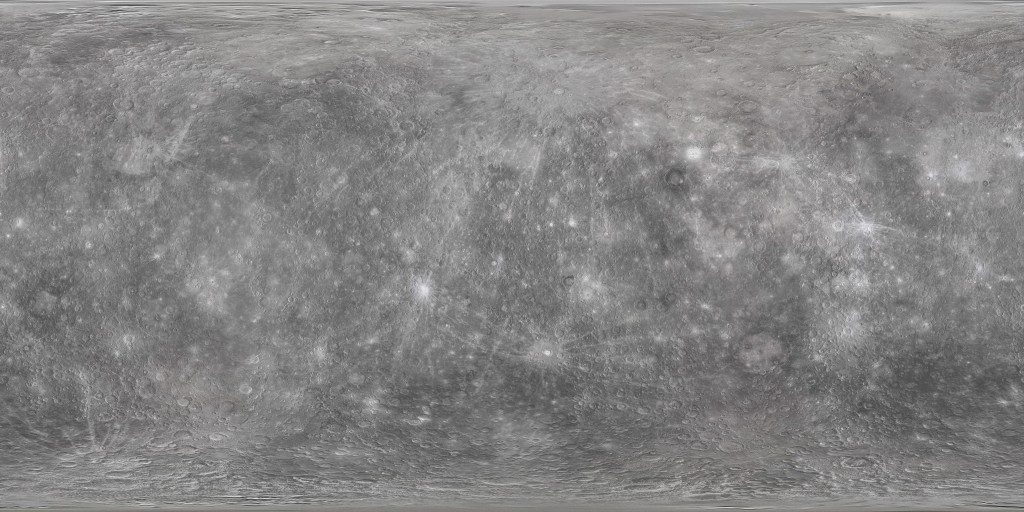
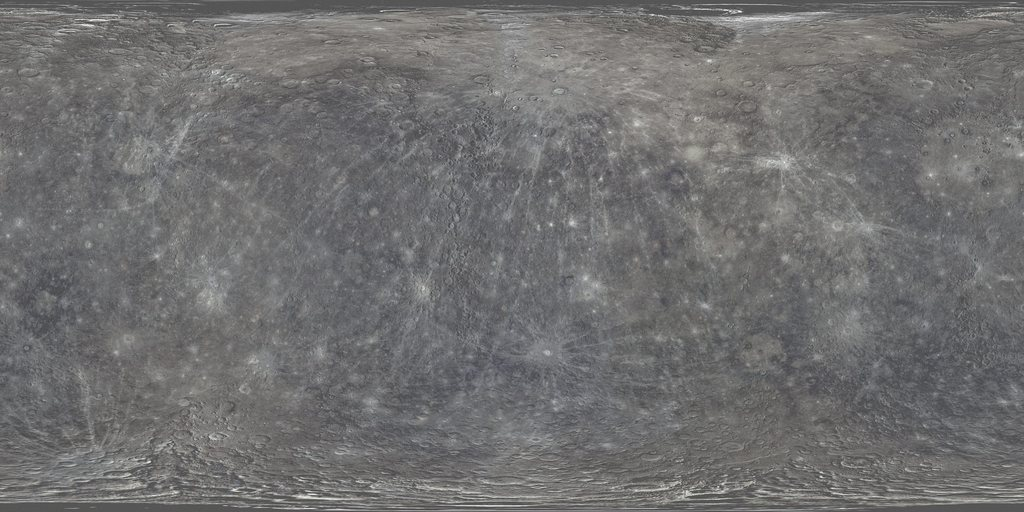
NASA-style realism: HD textures, relief maps, shadows and atmospheres
Stream 4K textures and normal maps when a world fills the screen, light planets with Phong shading, give Earth cloud shadows, ocean glint and a sunset terminator, add sun-aware atmospheres, make Saturn's rings and globe shadow each other, and give Titan its orange haze. Credits updated for RSS-Textures (CC BY-NC-SA) and NASA Blue/Black Marble.

diff --git a/js/main/solar.js b/js/main/solar.js
@@ -11,6 +11,22 @@ const PHYS={
  Saturnus:{r:58232,rot:10.656,pole:[40.59,83.54],obl:.09796,tex:'saturn.jpg'},Uranus:{r:25362,rot:-17.24,pole:[257.31,-15.18],obl:.0229,tex:'uranus.jpg'},
  Neptunus:{r:24622,rot:16.11,pole:[299.36,43.46],obl:.0171,tex:'neptune.jpg'},Pluto:{r:1188.3,rot:-153.29,pole:[132.99,-6.16],col:'#cdb79c'},Bulan:{r:1737.4}
 };
+/* ---------- HD textures streamed on demand (level of detail) ---------- */
+const HDN=new Set(['moon','mars','mercury','io','europa','ganymede','callisto','pluto','charon','miranda','ariel','umbriel','titania','oberon','earth']);
+const HDP={Merkurius:'mercury',Mars:'mars',Jupiter:'jupiter',Saturnus:'saturn',Uranus:'uranus',Neptunus:'neptune',Pluto:'pluto'};
+const HDQ=[];let hdTickN=0,hdBusy=0;
+function hdAdd(mesh,mat,key){HDQ.push({mesh,mat,key,done:false})}
+function hdLoad(e){e.done=true;hdBusy++;const ld=f=>new Promise(res=>new THREE.TextureLoader().load('tex/hd/'+f,t=>{t.anisotropy=renderer.capabilities.getMaxAnisotropy();res(t)},undefined,()=>res(null)));
+  const jobs=e.key==='earth'?[ld('earth_day.jpg'),ld('earth_night.jpg'),ld('earth_spec.jpg'),ld('earth_n.jpg')]:[ld(e.key+'.jpg'),HDN.has(e.key)?ld(e.key+'_n.jpg'):Promise.resolve(null)];
+  Promise.all(jobs).then(t=>{hdBusy--;const m=e.mat;
+    if(e.key==='earth'){if(t[0])m.uniforms.uDay.value=t[0];if(t[1])m.uniforms.uNight.value=t[1];if(t[2])m.uniforms.uSpec.value=t[2];if(t[3]){m.uniforms.uNorm.value=t[3];m.uniforms.uHasN.value=1}return}
+    if(m.uniforms&&m.uniforms.uMap){if(t[0])m.uniforms.uMap.value=t[0];return}
+    if(t[0]){m.map=t[0];m.color.set(0xd6d6d6)}if(t[1]){m.normalMap=t[1];m.normalScale=new THREE.Vector2(.9,-.9)}m.needsUpdate=true})}
+const _hv=new THREE.Vector3();
+function hdTick(){if(++hdTickN%15||hdBusy>2)return;const f=H/2/Math.tan(camera.fov/2*DEG);
+  for(const e of HDQ){if(e.done)continue;const ms=e.mesh;let vis=true;for(let o=ms;o;o=o.parent)if(!o.visible){vis=false;break}if(!vis)continue;
+    ms.getWorldPosition(_hv);const dist=_hv.distanceTo(camera.position);if(!ms.geometry.boundingSphere)ms.geometry.computeBoundingSphere();
+    const px=ms.geometry.boundingSphere.radius*ms.matrixWorld.getMaxScaleOnAxis()/Math.max(dist,1e-9)*f;if(px>90){hdLoad(e);if(hdBusy>2)return}}}
 const FOCUS_S={Bulan:6.95,Matahari:9.45,Merkurius:7.3,Venus:7.6,Bumi:7.3,Mars:7.9,Jupiter:9.7,Saturnus:9.95,Uranus:9.35,Neptunus:9.0,Pluto:8.35};
 const MAXA={Bumi:1.6e6,Mars:23463,Jupiter:2.45e7,Saturnus:2.7e7,Uranus:2.05e7,Neptunus:5.1e7,Pluto:64738};
 function poleBasis(name){const p=PHYS[name].pole;const Y=A.eqToEcl(A.sph(p[0],p[1]));let X;
@@ -47,47 +63,89 @@ const sunMesh=new THREE.Mesh(new THREE.SphereGeometry(PHYS.Matahari.r,64,40),sun
 const bodies={};
 function planetLayer(name){const maxA=Math.max(PHYS[name].r*6,MAXA[name]||0);const top=Math.log10(maxA*KM*2)+1.4;
   const L=layer(name,KM,A.M_ECL,()=>POS[name],s=>win(-9,top,.8,s));L.top=top;bodies[name]=L;return L}
-const earthMat=new THREE.ShaderMaterial({uniforms:{uDay:{value:TX('earth_day.jpg')},uNight:{value:TX('earth_night.jpg')},uSpec:{value:TX('earth_spec.jpg')},uSun:{value:new THREE.Vector3(1,0,0)},uOpacity:{value:1}},transparent:true,
+const earthMat=new THREE.ShaderMaterial({uniforms:{uDay:{value:TX('earth_day.jpg')},uNight:{value:TX('earth_night.jpg')},uSpec:{value:TX('earth_spec.jpg')},uNorm:{value:null},uHasN:{value:0},uClouds:{value:TX('earth_clouds.jpg')},uCR:{value:0},uSun:{value:new THREE.Vector3(1,0,0)},uOpacity:{value:1}},transparent:true,
+ vertexShader:LD_V+`varying vec2 vUv;varying vec3 vN;varying vec3 vP;varying vec3 vT;void main(){vUv=uv;vN=normalize(mat3(modelMatrix)*normal);vT=mat3(modelMatrix)*vec3(position.z,0.0,-position.x);vec4 wp=modelMatrix*vec4(position,1.0);vP=wp.xyz;gl_Position=projectionMatrix*viewMatrix*wp;
+#include <logdepthbuf_vertex>
+}`,
+ fragmentShader:LD_F+`uniform sampler2D uDay,uNight,uSpec,uNorm,uClouds;uniform vec3 uSun;uniform float uOpacity,uHasN,uCR;varying vec2 vUv;varying vec3 vN;varying vec3 vP;varying vec3 vT;
+void main(){
+#include <logdepthbuf_fragment>
+vec3 ng=normalize(vN);vec3 L=normalize(uSun);vec3 V=normalize(cameraPosition-vP);float ndlg=dot(ng,L);
+vec3 day=texture2D(uDay,vUv).rgb;vec3 night=texture2D(uNight,vUv).rgb;float spm=texture2D(uSpec,vUv).r;
+vec3 n=ng;if(uHasN>0.5){vec3 T=normalize(vT-ng*dot(vT,ng)+1e-6);vec3 B=cross(ng,T);vec3 nm=texture2D(uNorm,vUv).xyz*2.0-1.0;n=normalize(mix(ng,normalize(T*nm.x+B*nm.y+ng*nm.z),1.0-spm));}
+float ndl=dot(n,L);float dayK=smoothstep(-0.12,0.2,ndlg);
+float cs=texture2D(uClouds,vUv-vec2(uCR,0.0)).r;float shadow=1.0-0.45*cs*dayK;
+vec3 Hh=normalize(L+V);float nh=max(dot(ng,Hh),0.0);float fres=0.04+0.96*pow(1.0-max(dot(ng,V),0.0),5.0);
+float spec=(pow(nh,160.0)*0.55+pow(nh,24.0)*0.035)*spm*dayK*(0.5+fres)*(1.0-0.85*cs);
+vec3 col=day*(0.012+0.95*pow(max(ndl,0.0),0.85))*shadow+spec*vec3(1.0,0.9,0.75);
+col+=night*vec3(1.0,0.78,0.45)*1.6*(1.0-dayK)*(1.0-0.6*cs);
+float rim=pow(1.0-max(dot(ng,V),0.0),2.5);
+col+=vec3(0.30,0.55,1.0)*rim*0.75*smoothstep(-0.2,0.45,ndlg);
+col+=vec3(1.0,0.45,0.18)*rim*0.45*exp(-pow(ndlg/0.13,2.0));
+col=mix(col,col*vec3(0.92,0.96,1.06)+vec3(0.012,0.02,0.04)*dayK,0.5);
+gl_FragColor=vec4(col,uOpacity);}`});
+earthMat.userData.base=1;earthMat.userData.u=true;
+const ATMOS=[];
+function atmoShell(col,sunset,str,powr,back){const m=new THREE.ShaderMaterial({uniforms:{uOpacity:{value:1},uSun:{value:new THREE.Vector3(1,0,0)},uC:{value:new THREE.Color(col)},uS:{value:new THREE.Color(sunset)},uStr:{value:str},uPow:{value:powr}},transparent:true,depthWrite:false,blending:THREE.AdditiveBlending,side:back?THREE.BackSide:THREE.FrontSide,
+ vertexShader:LD_V+`varying vec3 vNw;varying vec3 vPw;void main(){vNw=normalize(mat3(modelMatrix)*normal);vec4 wp=modelMatrix*vec4(position,1.0);vPw=wp.xyz;gl_Position=projectionMatrix*viewMatrix*wp;
+#include <logdepthbuf_vertex>
+}`,
+ fragmentShader:LD_F+`uniform float uOpacity,uStr,uPow;uniform vec3 uSun,uC,uS;varying vec3 vNw;varying vec3 vPw;void main(){
+#include <logdepthbuf_fragment>
+vec3 n=normalize(vNw);vec3 V=normalize(cameraPosition-vPw);vec3 L=normalize(uSun);float mu=dot(n,V);float ndl=dot(n,L);
+float I=`+(back?`pow(max(0.0,-mu),1.15)*2.4`:`pow(1.0-max(mu,0.0),uPow)`)+`;
+float sun=smoothstep(-0.32,0.4,ndl);vec3 c=mix(uS,uC,smoothstep(-0.05,0.35,ndl));
+gl_FragColor=vec4(c,min(I*sun*uStr,1.0)*uOpacity);}`});m.userData.base=1;m.userData.u=true;return m}
+function addAtmo(L,parent,r,col,sunset,str,thick){const out=atmoShell(col,sunset,str,1.0,true),inn=atmoShell(col,sunset,str*.55,3.0,false);
+  const a=new THREE.Mesh(new THREE.SphereGeometry(r*(1+thick),64,40),out),b=new THREE.Mesh(new THREE.SphereGeometry(r*(1+thick*.25),64,40),inn);parent.add(a);parent.add(b);L.mats.push(out,inn);ATMOS.push({L,mats:[out,inn],mesh:a})}
+const atmoMat=null;
+const RING_U=`uniform vec3 uSun,uC,uRN;uniform float uKm,uR;`;
+const ringMat=new THREE.ShaderMaterial({uniforms:{uTex:{value:TX('saturn_ring.png')},uOpacity:{value:1},uSun:{value:new THREE.Vector3(1,0,0)},uC:{value:new THREE.Vector3()},uRN:{value:new THREE.Vector3(0,1,0)},uKm:{value:1},uR:{value:58232}},transparent:true,side:THREE.DoubleSide,depthWrite:false,
+ vertexShader:LD_V+`varying vec2 vP;varying vec3 vPw;void main(){vP=position.xy;vec4 wp=modelMatrix*vec4(position,1.0);vPw=wp.xyz;gl_Position=projectionMatrix*viewMatrix*wp;
+#include <logdepthbuf_vertex>
+}`,
+ fragmentShader:LD_F+RING_U+`uniform sampler2D uTex;uniform float uOpacity;varying vec2 vP;varying vec3 vPw;void main(){
+#include <logdepthbuf_fragment>
+float r=length(vP);float u=(r-74500.0)/(140220.0-74500.0);if(u<0.0||u>1.0)discard;vec4 t=texture2D(uTex,vec2(u,0.5));
+vec3 L=normalize(uSun);vec3 D=(vPw-uC)/uKm;float tc=-dot(D,L);float sh=1.0;
+if(tc>0.0){vec3 cl=D+L*tc;float py=dot(cl,uRN);vec3 q=cl-uRN*py+uRN*py/0.902;if(length(q)<uR)sh=0.04;}
+float lit=abs(dot(L,uRN));float side=sign(dot(L,uRN))*sign(dot(cameraPosition-vPw,uRN));
+float b=(0.35+0.65*pow(lit,0.35))*(side>0.0?1.0:0.42);
+gl_FragColor=vec4(t.rgb*1.05*b*sh,t.a*uOpacity*(side>0.0?1.0:0.85));}`});
+ringMat.userData.base=1;ringMat.userData.u=true;
+const satMat=new THREE.ShaderMaterial({uniforms:{uMap:{value:TX('saturn.jpg')},uRing:{value:ringMat.uniforms.uTex.value},uOpacity:{value:1},uSun:{value:new THREE.Vector3(1,0,0)},uC:{value:new THREE.Vector3()},uRN:{value:new THREE.Vector3(0,1,0)},uKm:{value:1},uR:{value:58232}},transparent:true,
+ vertexShader:LD_V+`varying vec2 vUv;varying vec3 vNv;varying vec3 vPw;varying vec3 vVv;void main(){vUv=uv;vNv=normalize(normalMatrix*normal);vec4 wp=modelMatrix*vec4(position,1.0);vPw=wp.xyz;vec4 mv=viewMatrix*wp;vVv=-mv.xyz;gl_Position=projectionMatrix*mv;
+#include <logdepthbuf_vertex>
+}`,
+ fragmentShader:LD_F+RING_U+`uniform sampler2D uMap,uRing;uniform float uOpacity;varying vec2 vUv;varying vec3 vNv;varying vec3 vPw;varying vec3 vVv;void main(){
+#include <logdepthbuf_fragment>
+vec3 L=normalize(uSun);vec3 Lv=normalize((viewMatrix*vec4(L,0.0)).xyz);vec3 n=normalize(vNv);float ndl=max(dot(n,Lv),0.0);float mu=max(dot(n,normalize(vVv)),0.0);
+float sh=1.0;float dn=dot(L,uRN);if(abs(dn)>1e-4){float t=dot(uC-vPw,uRN)/dn;if(t>0.0){vec3 Q=vPw+L*t;float r=length(Q-uC)/uKm;float u=(r-74500.0)/(140220.0-74500.0);if(u>0.0&&u<1.0)sh=1.0-0.88*texture2D(uRing,vec2(u,0.5)).a;}}
+vec3 tex=texture2D(uMap,vUv).rgb;vec3 col=tex*(0.012+1.0*pow(ndl,0.9)*sh)*(0.78+0.22*pow(mu,0.35));
+gl_FragColor=vec4(col,uOpacity);}`});
+satMat.userData.base=1;satMat.userData.u=true;
+const moonTex=TX('moon.jpg');
+const PH=o=>new THREE.MeshPhongMaterial(Object.assign({shininess:1,specular:0x000000,color:0xd6d6d6,transparent:true},o));
+const moonMat=(spec,L)=>reg(L,spec.endsWith('.jpg')?PH({map:TX(spec)}):PH({color:spec}),1);
+for(const name of PL){const L=planetLayer(name);const ph=PHYS[name];
+  const eq=new THREE.Group();eq.quaternion.setFromRotationMatrix(poleBasis(name));L.q.add(eq);L.eq=eq;
+  let mat;if(name==='Bumi'){mat=earthMat;L.mats.push(earthMat)}else if(name==='Saturnus'){mat=satMat;L.mats.push(satMat)}else mat=reg(L,PH({map:TX(ph.tex||'pluto.jpg')}),1);
+  const mesh=new THREE.Mesh(new THREE.SphereGeometry(ph.r,128,96),mat);mesh.scale.y=1-(ph.obl||0);eq.add(mesh);L.mesh=mesh;if(HDP[name])hdAdd(mesh,mat,HDP[name]);
+  if(name==='Bumi'){const cm=new THREE.ShaderMaterial({uniforms:{uMap:{value:TX('earth_clouds.jpg')},uSun:earthMat.uniforms.uSun,uOpacity:{value:1}},transparent:true,depthWrite:false,
  vertexShader:LD_V+`varying vec2 vUv;varying vec3 vN;varying vec3 vP;void main(){vUv=uv;vN=normalize(mat3(modelMatrix)*normal);vec4 wp=modelMatrix*vec4(position,1.0);vP=wp.xyz;gl_Position=projectionMatrix*viewMatrix*wp;
 #include <logdepthbuf_vertex>
 }`,
- fragmentShader:LD_F+`uniform sampler2D uDay,uNight,uSpec;uniform vec3 uSun;uniform float uOpacity;varying vec2 vUv;varying vec3 vN;varying vec3 vP;
-void main(){
+ fragmentShader:LD_F+`uniform sampler2D uMap;uniform vec3 uSun;uniform float uOpacity;varying vec2 vUv;varying vec3 vN;varying vec3 vP;void main(){
 #include <logdepthbuf_fragment>
-vec3 n=normalize(vN);vec3 L=normalize(uSun);float ndl=dot(n,L);vec3 V=normalize(cameraPosition-vP);
-vec3 day=texture2D(uDay,vUv).rgb;vec3 night=texture2D(uNight,vUv).rgb;float spm=texture2D(uSpec,vUv).r;
-float dayK=smoothstep(-0.10,0.22,ndl);vec3 Hh=normalize(L+V);float spec=pow(max(dot(n,Hh),0.0),60.0)*spm*0.5*dayK;
-vec3 col=day*(0.015+0.92*pow(max(ndl,0.0),0.9))+spec*vec3(1.0,0.93,0.8)+night*vec3(1.0,0.8,0.5)*1.5*(1.0-dayK);
-float rim=pow(1.0-max(dot(n,V),0.0),3.0);col+=vec3(0.32,0.58,1.0)*rim*0.7*smoothstep(-0.25,0.5,ndl);
-gl_FragColor=vec4(col,uOpacity);}`});
-earthMat.userData.base=1;earthMat.userData.u=true;
-const atmoMat=new THREE.ShaderMaterial({uniforms:{uOpacity:{value:1}},transparent:true,depthWrite:false,blending:THREE.AdditiveBlending,side:THREE.BackSide,
- vertexShader:LD_V+`varying float vI;void main(){vec3 n=normalize(normalMatrix*normal);vec4 mv=modelViewMatrix*vec4(position,1.0);vI=pow(max(0.0,-dot(n,normalize(-mv.xyz))),1.2)*2.6;gl_Position=projectionMatrix*mv;
-#include <logdepthbuf_vertex>
-}`,
- fragmentShader:LD_F+`uniform float uOpacity;varying float vI;void main(){
-#include <logdepthbuf_fragment>
-gl_FragColor=vec4(0.35,0.62,1.0,min(vI,1.0)*uOpacity);}`});
-atmoMat.userData.base=1;atmoMat.userData.u=true;
-const ringMat=new THREE.ShaderMaterial({uniforms:{uTex:{value:TX('saturn_ring.png')},uOpacity:{value:1}},transparent:true,side:THREE.DoubleSide,depthWrite:false,
- vertexShader:LD_V+`varying vec2 vP;void main(){vP=position.xy;gl_Position=projectionMatrix*modelViewMatrix*vec4(position,1.0);
-#include <logdepthbuf_vertex>
-}`,
- fragmentShader:LD_F+`uniform sampler2D uTex;uniform float uOpacity;varying vec2 vP;void main(){
-#include <logdepthbuf_fragment>
-float r=length(vP);float u=(r-74500.0)/(140220.0-74500.0);if(u<0.0||u>1.0)discard;vec4 t=texture2D(uTex,vec2(u,0.5));gl_FragColor=vec4(t.rgb*0.95,t.a*uOpacity);}`});
-ringMat.userData.base=1;ringMat.userData.u=true;
-const moonTex=TX('moon.jpg');
-const moonMat=(spec,L)=>reg(L,spec.endsWith('.jpg')?new THREE.MeshLambertMaterial({map:TX(spec),transparent:true}):new THREE.MeshLambertMaterial({color:spec,transparent:true}),1);
-for(const name of PL){const L=planetLayer(name);const ph=PHYS[name];
-  const eq=new THREE.Group();eq.quaternion.setFromRotationMatrix(poleBasis(name));L.q.add(eq);L.eq=eq;
-  let mat;if(name==='Bumi'){mat=earthMat;L.mats.push(earthMat)}else mat=reg(L,ph.tex?new THREE.MeshLambertMaterial({map:TX(ph.tex),transparent:true}):new THREE.MeshLambertMaterial({color:ph.col,transparent:true}),1);
-  const mesh=new THREE.Mesh(new THREE.SphereGeometry(ph.r,96,64),mat);mesh.scale.y=1-(ph.obl||0);eq.add(mesh);L.mesh=mesh;
-  if(name==='Bumi'){const cl=new THREE.Mesh(new THREE.SphereGeometry(ph.r*1.008,96,64),reg(L,new THREE.MeshLambertMaterial({color:0xffffff,alphaMap:TX('earth_clouds.jpg'),transparent:true,depthWrite:false}),.75));mesh.add(cl);L.clouds=cl;
-    const atm=new THREE.Mesh(new THREE.SphereGeometry(ph.r*1.045,64,40),atmoMat);L.mats.push(atmoMat);L.q.add(atm);
-    L.moonPivot=new THREE.Group();L.q.add(L.moonPivot);const mm=new THREE.Mesh(new THREE.SphereGeometry(1737.4,64,40),reg(L,new THREE.MeshLambertMaterial({map:moonTex,transparent:true}),1));mm.rotation.y=-Math.PI/2;L.moonPivot.add(mm);L.moon=mm;
+vec3 n=normalize(vN);vec3 L=normalize(uSun);float ndl=dot(n,L);float a=texture2D(uMap,vUv).r;
+float lit=smoothstep(-0.08,0.35,ndl);vec3 c=mix(vec3(1.0,0.55,0.3),vec3(1.0),smoothstep(0.0,0.3,ndl))*(0.03+0.97*lit);
+gl_FragColor=vec4(c,a*0.92*uOpacity);}`});cm.userData.base=.85;cm.userData.u=true;L.mats.push(cm);
+    const cl=new THREE.Mesh(new THREE.SphereGeometry(ph.r*1.006,128,96),cm);mesh.add(cl);L.clouds=cl;
+    addAtmo(L,L.q,ph.r,'#5f9dff','#ff7a3a',1.0,.03);hdAdd(mesh,earthMat,'earth');
+    L.moonPivot=new THREE.Group();L.q.add(L.moonPivot);const mmMat=reg(L,PH({map:moonTex}),1);const mm=new THREE.Mesh(new THREE.SphereGeometry(1737.4,128,96),mmMat);hdAdd(mm,mmMat,'moon');mm.rotation.y=-Math.PI/2;L.moonPivot.add(mm);L.moon=mm;
     const pts=[];for(let k=0;k<=256;k++)pts.push(...A.moonEcl(k/256*27.321661));const og=new THREE.BufferGeometry();og.setAttribute('position',new THREE.Float32BufferAttribute(pts,3));L.q.add(new THREE.Line(og,reg(L,lineMat(0x9cb4d8,.3))))}
-  if(name==='Saturnus'){const ring=new THREE.Mesh(new THREE.RingGeometry(74500,140220,192,1),ringMat);L.mats.push(ringMat);ring.rotation.x=-Math.PI/2;eq.add(ring)}
+  if(name==='Saturnus'){const ring=new THREE.Mesh(new THREE.RingGeometry(74500,140220,256,1),ringMat);L.mats.push(ringMat);ring.rotation.x=-Math.PI/2;ring.renderOrder=3;eq.add(ring);L.ring=ring}
+  const AT={Venus:['#fff1cf','#ffb070',1.1,.04],Mars:['#ffb59a','#ff8a5a',.45,.02],Jupiter:['#e8d6b8','#d99a6a',.35,.012],Saturnus:['#f0e2bf','#d9a46a',.32,.012],Uranus:['#a9e6f0','#7fc4d8',.5,.02],Neptunus:['#7fa6ff','#5d7fe0',.5,.02]}[name];if(AT)addAtmo(L,eq,ph.r,AT[0],AT[1],AT[2],AT[3]);
   L.moons=[];
   for(const m of []){const[mn,a,P,r,spec,inc]=m;const orb=new THREE.Group();if(inc)orb.rotation.x=inc*DEG;eq.add(orb);
     const mesh=new THREE.Mesh(new THREE.SphereGeometry(r,32,20),moonMat(spec,L));orb.add(mesh);
@@ -99,7 +157,7 @@ for(const name of PL){const L=planetLayer(name);const ph=PHYS[name];
 /* ---------- all known moons (data-driven: JPL mean elements + Wikipedia tables) ---------- */
 const MK=window.MOONKIT;for(const k in MK.BODY)CT.BODY[k]=MK.BODY[k];
 const MOONMAP={};const MOONLIST=[];
-const MOONTEX={Io:'io.jpg',Europa:'europa.jpg',Ganymede:'ganymede.jpg',Callisto:'callisto.jpg',Titan:'titan.jpg',Triton:'triton.jpg'};
+const MOONTEX={Io:'io.jpg',Europa:'europa.jpg',Ganymede:'ganymede.jpg',Callisto:'callisto.jpg',Titan:'titan.jpg',Triton:'triton.jpg',Charon:'charon.jpg',Mimas:'mimas.jpg',Enceladus:'enceladus.jpg',Tethys:'tethys.jpg',Dione:'dione.jpg',Rhea:'rhea.jpg',Iapetus:'iapetus.jpg',Miranda:'miranda.jpg',Ariel:'ariel.jpg',Umbriel:'umbriel.jpg',Titania:'titania.jpg',Oberon:'oberon.jpg'};
 const MOONCOL={Enceladus:'#f2f6fa',Mimas:'#c9c6c0',Tethys:'#e6e4df',Dione:'#d9d6d0',Rhea:'#cdc8c0',Iapetus:'#a89a82',Hyperion:'#c2a98a',Phoebe:'#5d5650',Miranda:'#bdbab4',Ariel:'#c9c5bf',Umbriel:'#8a8680',Titania:'#bdb2a6',Oberon:'#a99d92',Charon:'#a59c94',Proteus:'#7d7872',Nereid:'#9a958f',Amalthea:'#b5634a',Phobos:'#8a8178',Deimos:'#9b9084',Janus:'#bdb7ad',Epimetheus:'#bdb7ad',Puck:'#7f7a74',Sycorax:'#a37c66',Himalia:'#8f877d'};
 function moonLocal(m,days,Efix){let E;if(Efix!==undefined&&Efix!==null)E=Efix;else{const M=m.M0+TAU*((days/m.P)%1);E=A.kepler(((M%TAU)+TAU+Math.PI)%TAU-Math.PI,m.e)}
   const xp=m.a*(Math.cos(E)-m.e),yp=m.a*Math.sqrt(1-m.e*m.e)*Math.sin(E);const B=m.B;return[B[0]*xp+B[3]*yp,B[2]*xp+B[5]*yp,-(B[1]*xp+B[4]*yp)]}
@@ -109,8 +167,8 @@ function buildMoons(rows){for(const r of rows){const[pl,name,a,e,i,O,w,M0,P,rad,
     const sp=[],scol=[],segs=[],segsIn=[];L.small=[];
     for(const m of L.ml){const big=m.r>=40||!!MOONTEX[m.name];const n=big?160:64;const pts=[];for(let k=0;k<=n;k++)pts.push(moonLocal(m,0,k/n*TAU));
       if(big){const og=new THREE.BufferGeometry();og.setAttribute('position',new THREE.Float32BufferAttribute(pts.flat(),3));m.lmat=reg(L,lineMat(0x9cb4d8,m.i>90?.2:.28));L.eq.add(new THREE.Line(og,m.lmat));
-        const tex=MOONTEX[m.name];const mat=tex?new THREE.MeshLambertMaterial({map:TX(tex),transparent:true}):new THREE.MeshLambertMaterial({map:moonTex,color:new THREE.Color(MOONCOL[m.name]||'#b9b3aa'),transparent:true});
-        m.mesh=new THREE.Mesh(new THREE.SphereGeometry(m.r,m.r>500?48:24,m.r>500?32:16),reg(L,mat,1));if(m.name==='Hyperion')m.mesh.scale.set(1.3,.85,1);L.eq.add(m.mesh)}
+        const tex=MOONTEX[m.name];const mat=tex?PH({map:TX(tex)}):PH({map:moonTex,color:new THREE.Color(MOONCOL[m.name]||'#b9b3aa')});
+        m.mesh=new THREE.Mesh(new THREE.SphereGeometry(m.r,m.r>500?96:24,m.r>500?64:16),reg(L,mat,1));if(tex)hdAdd(m.mesh,mat,tex.replace('.jpg',''));if(m.name==='Titan')addAtmo(L,m.mesh,m.r,'#e0a050','#b86420',.45,.07);if(m.name==='Hyperion')m.mesh.scale.set(1.3,.85,1);L.eq.add(m.mesh)}
       else{m.si=L.small.length;L.small.push(m);sp.push(0,0,0);scol.push(...(m.i>90?[1,.66,.52]:[.7,.86,1]));const arr=m.a>3e6?segs:segsIn;for(let k=0;k<n;k++)arr.push(...pts[k],...pts[k+1]);if(m.a>3e6)L.outerMinA=Math.min(L.outerMinA||1e12,m.a*(1-m.e))}}
     L.sysA=Math.max(...L.ml.map(m=>m.a));if(L.small.length){L.smallPos=new Float32Array(sp);L.smallMat=reg(L,pmat(1.8,.9));const pc=cloud(L.smallPos,scol,new Array(L.small.length).fill(1),L.smallMat);L.smallAttr=pc.geometry.attributes.position;L.eq.add(pc);
       for(const[arr,op,outer]of[[segs,.08,true],[segsIn,.16,false]]){if(!arr.length)continue;const sg=new THREE.BufferGeometry();sg.setAttribute('position',new THREE.Float32BufferAttribute(arr,3));const mt=reg(L,lineMat(0x8fa6c8,op));if(outer)L.outerMat=mt;else L.inMat=mt;const LS=new THREE.LineSegments(sg,mt);LS.frustumCulled=false;L.eq.add(LS)}}}}

diff --git a/js/content2.js b/js/content2.js
@@ -244,6 +244,7 @@ const NAMES_EN={'Nebula Orion':'Orion Nebula','Nebula Kepala Kuda':'Horsehead Ne
 
 const CREDITS=X([
  'Tekstur Matahari, planet raksasa, dan sebagian satelit: Solar System Scope (solarsystemscope.com), lisensi CC BY 4.0, berbasis data NASA.',
+ 'Tekstur resolusi tinggi (dimuat saat kamu mendekat) dan normal map relief untuk Bulan, Merkurius, Mars, Jupiter, Saturnus, Uranus, Neptunus, Pluto, Charon, satelit Galileo, serta satelit Saturnus dan Uranus: RSS-Textures (KSP-RO, NathanKell dkk.), CC BY-NC-SA, sebagian besar berbasis citra NASA/JPL, Steve Albers, dan Celestia Motherlode. Bumi resolusi tinggi: NASA Blue Marble, Black Marble, dan peta topografi (domain publik), melalui proyek three-globe.',
  'Tekstur planet kebumian: Planet Pixel Emporium (James Hastings-Trew). Lampu malam Bumi: NASA Black Marble. Merkurius: NASA/JHUAPL/Carnegie (MESSENGER). Bulan: NASA SVS.',
  'Foto Olympus Mons, Valles Marineris, Bintik Merah Raksasa, heksagon Saturnus, Bintik Gelap Neptunus, Apollo 11, Kawah Tycho, Perseverance, Curiosity: NASA (domain publik), dikumpulkan dalam proyek kylegough/solar-system di GitHub.',
  'Foto nebula, gugus, dan galaksi: astrofotografer yang tercantum di tiap panel, didistribusikan bersama planetarium Stellarium.',
@@ -253,6 +254,7 @@ const CREDITS=X([
  'Efek suara dibuat langsung di browser dengan Web Audio API, tanpa rekaman.',
  'Orbit planet kerdil dan asteroid: JPL Small-Body Database. Posisi Voyager dan New Horizons diperkirakan dari jarak terbaru di situs NASA; fase ISS, Hubble, GPS, satelit geostasioner, dan orbit halo JWST adalah ilustrasi.'],[
  'Sun, giant-planet and some moon textures: Solar System Scope (solarsystemscope.com), CC BY 4.0, based on NASA data.',
+ 'High-resolution textures (loaded as you get close) and relief normal maps for the Moon, Mercury, Mars, Jupiter, Saturn, Uranus, Neptune, Pluto, Charon, the Galilean moons and the moons of Saturn and Uranus: RSS-Textures (KSP-RO, NathanKell et al.), CC BY-NC-SA, largely based on NASA/JPL imagery, Steve Albers and the Celestia Motherlode. High-resolution Earth: NASA Blue Marble, Black Marble and topography (public domain), via the three-globe project.',
  'Terrestrial planet textures: Planet Pixel Emporium (James Hastings-Trew). Earth night lights: NASA Black Marble. Mercury: NASA/JHUAPL/Carnegie (MESSENGER). Moon: NASA SVS.',
  'Photos of Olympus Mons, Valles Marineris, the Great Red Spot, Saturn’s hexagon, Neptune’s Great Dark Spot, Apollo 11, Tycho Crater, Perseverance and Curiosity: NASA (public domain), collected in the kylegough/solar-system project on GitHub.',
  'Nebula, cluster and galaxy photos: the astrophotographers credited in each panel, distributed with the Stellarium planetarium.',

diff --git a/js/main/frame.js b/js/main/frame.js
@@ -24,14 +24,18 @@ function applyLayers(){k=1/Math.pow(10,s);
   for(const L of layers){const a=L.winFn(s);L.alpha=a;L.g.visible=a>.004;if(!L.g.visible)continue;const o=L.originFn();
     L.g.position.set((o[0]-tgt[0])*k,(o[1]-tgt[1])*k,(o[2]-tgt[2])*k);L.g.scale.setScalar(L.unit*k);
     for(const m of L.mats){const v=m.userData.base*a;if(m.userData.u)m.uniforms.uOpacity.value=v;else m.opacity=v}}}
-const _w=new THREE.Vector3(),_w2=new THREE.Vector3();
+const _w=new THREE.Vector3(),_w2=new THREE.Vector3(),_q=new THREE.Vector3(),_qq=new THREE.Quaternion();
 function animateBodies(){const days=d;
   if(sunL.g.visible)sunMesh.rotation.y=(days*24/PHYS.Matahari.rot)%1*TAU;
   for(const n of PL){const L=bodies[n];if(!L||!L.g.visible)continue;const ph=PHYS[n];
     if(n==='Bumi'){L.mesh.rotation.y=A.gmst(days);L.clouds.rotation.y=(days*.03)%TAU;const mp=A.moonEcl(days);L.moonPivot.position.set(mp[0],mp[1],mp[2]);L.g.getWorldPosition(_w);L.moonPivot.lookAt(_w);
-      sunL.g.getWorldPosition(_w2);earthMat.uniforms.uSun.value.copy(_w2).sub(_w)}
+      sunL.g.getWorldPosition(_w2);earthMat.uniforms.uSun.value.copy(_w2).sub(_w);earthMat.uniforms.uCR.value=L.clouds.rotation.y/TAU}
     else L.mesh.rotation.y=((days*24/ph.rot)%1)*TAU;
-    updateMoonsOf(L,days)}
+    updateMoonsOf(L,days);
+    if(n==='Saturnus'&&L.ring){L.mesh.getWorldPosition(_w);sunL.g.getWorldPosition(_w2);_w2.sub(_w).normalize();_q.set(0,1,0);L.eq.getWorldQuaternion(_qq);_q.applyQuaternion(_qq);
+      for(const m of [satMat,ringMat]){m.uniforms.uSun.value.copy(_w2);m.uniforms.uC.value.copy(_w);m.uniforms.uRN.value.copy(_q);m.uniforms.uKm.value=L.g.scale.x}}}
+  if(sunL.g.visible||true){sunL.g.getWorldPosition(_w2);for(const A_ of ATMOS){if(!A_.L.g.visible)continue;A_.mesh.getWorldPosition(_w);_q.copy(_w2).sub(_w);for(const m of A_.mats)m.uniforms.uSun.value.copy(_q)}}
+  hdTick();
   if(solL.g.visible){propagate(AST,d);AST.attr.needsUpdate=true;propagate(TRO,d);TRO.attr.needsUpdate=true;propagate(KBO,d);KBO.attr.needsUpdate=true}
   if(oortL.g.visible){propagate(OORT,d);OORT.attr.needsUpdate=true}
   if(galL.g.visible){galMat.uniforms.uTime.value=yrs();galMat.uniforms.uTd.value=galTd;galMat.uniforms.uMode.value=galMode}

diff --git a/js/main/core.js b/js/main/core.js
@@ -31,7 +31,7 @@ const controls=new THREE.OrbitControls(camera,cv);
 controls.enableZoom=false;controls.enablePan=false;controls.enableDamping=true;controls.dampingFactor=.08;controls.rotateSpeed=.55;
 camera.position.set(0,.42,1).normalize();
 const root=new THREE.Group();scene.add(root);
-scene.add(new THREE.AmbientLight(0xffffff,.06));
+scene.add(new THREE.AmbientLight(0xffffff,.018));
 const composer=new THREE.EffectComposer(renderer);
 composer.addPass(new THREE.RenderPass(scene,camera));
 const bloom=new THREE.UnrealBloomPass(new THREE.Vector2(256,256),.8,.55,.6);

diff --git a/README.md b/README.md
@@ -8,6 +8,7 @@ An interactive 3D journey from Earth to the edge of the observable universe and 
 
 - **11 scale levels**: Earth, Earth–Moon, inner solar system, solar system, heliosphere, Oort Cloud, neighbouring stars, Milky Way, Local Group, Laniakea and the observable universe.
 - **Real positions**: planets are computed from JPL Keplerian elements, solving Kepler's equation with Newton's method. Earth's rotation follows sidereal time (GMST). Hundreds of moons use JPL mean elements, and asteroids and dwarf planets come from the JPL Small-Body Database.
+- **NASA-style realism**: 4K textures streamed on demand as you approach a world, relief normal maps, Earth with moving cloud shadows, ocean sun glint, city lights and a sunset-coloured terminator, sun-aware atmospheres (Venus, Mars, Titan, giant planets), and Saturn's rings and globe casting shadows on each other.
 - **Real sky**: HYG star catalogue, Stellarium constellation lines, and nebula and galaxy photos.
 - **Two-way guided tour** (Earth → Universe, Universe → Earth) with documentary narration, subtitles and a chapter player (pause, replay, skip).
 - **Learning hub**: 27-question quiz, 25-term glossary, progress tracking and keyboard shortcuts.
@@ -55,6 +56,8 @@ There is no build step: edit the files and reload. The `js/main/*.js` files are 
 ## Data and image credits
 
 - Sun, giant-planet and some moon textures: [Solar System Scope](https://www.solarsystemscope.com/textures/), CC BY 4.0, based on NASA data.
+- High-resolution textures (streamed when you get close) and relief normal maps for the Moon, Mercury, Mars, the giant planets, Pluto, Charon and the major moons: [RSS-Textures](https://github.com/KSP-RO/RSS-Textures) (NathanKell et al.), **CC BY-NC-SA**, largely based on NASA/JPL imagery, Steve Albers and the Celestia Motherlode. Because of that licence, these textures may only be reused non-commercially and under the same terms.
+- High-resolution Earth: NASA Blue Marble, Black Marble and topography (public domain), via [three-globe](https://github.com/vasturiano/three-globe).
 - Terrestrial planet textures: Planet Pixel Emporium (James Hastings-Trew). Earth night lights: NASA Black Marble. Mercury: NASA/JHUAPL/Carnegie (MESSENGER). Moon: NASA SVS.
 - Surface and mission photos (Olympus Mons, Great Red Spot, Saturn's hexagon, Apollo 11, Perseverance and more): NASA (public domain), collected in [kylegough/solar-system](https://github.com/kylegough/solar-system).
 - Nebula, cluster and galaxy photos: the astrophotographers credited in each panel, distributed with [Stellarium](https://stellarium.org/).
